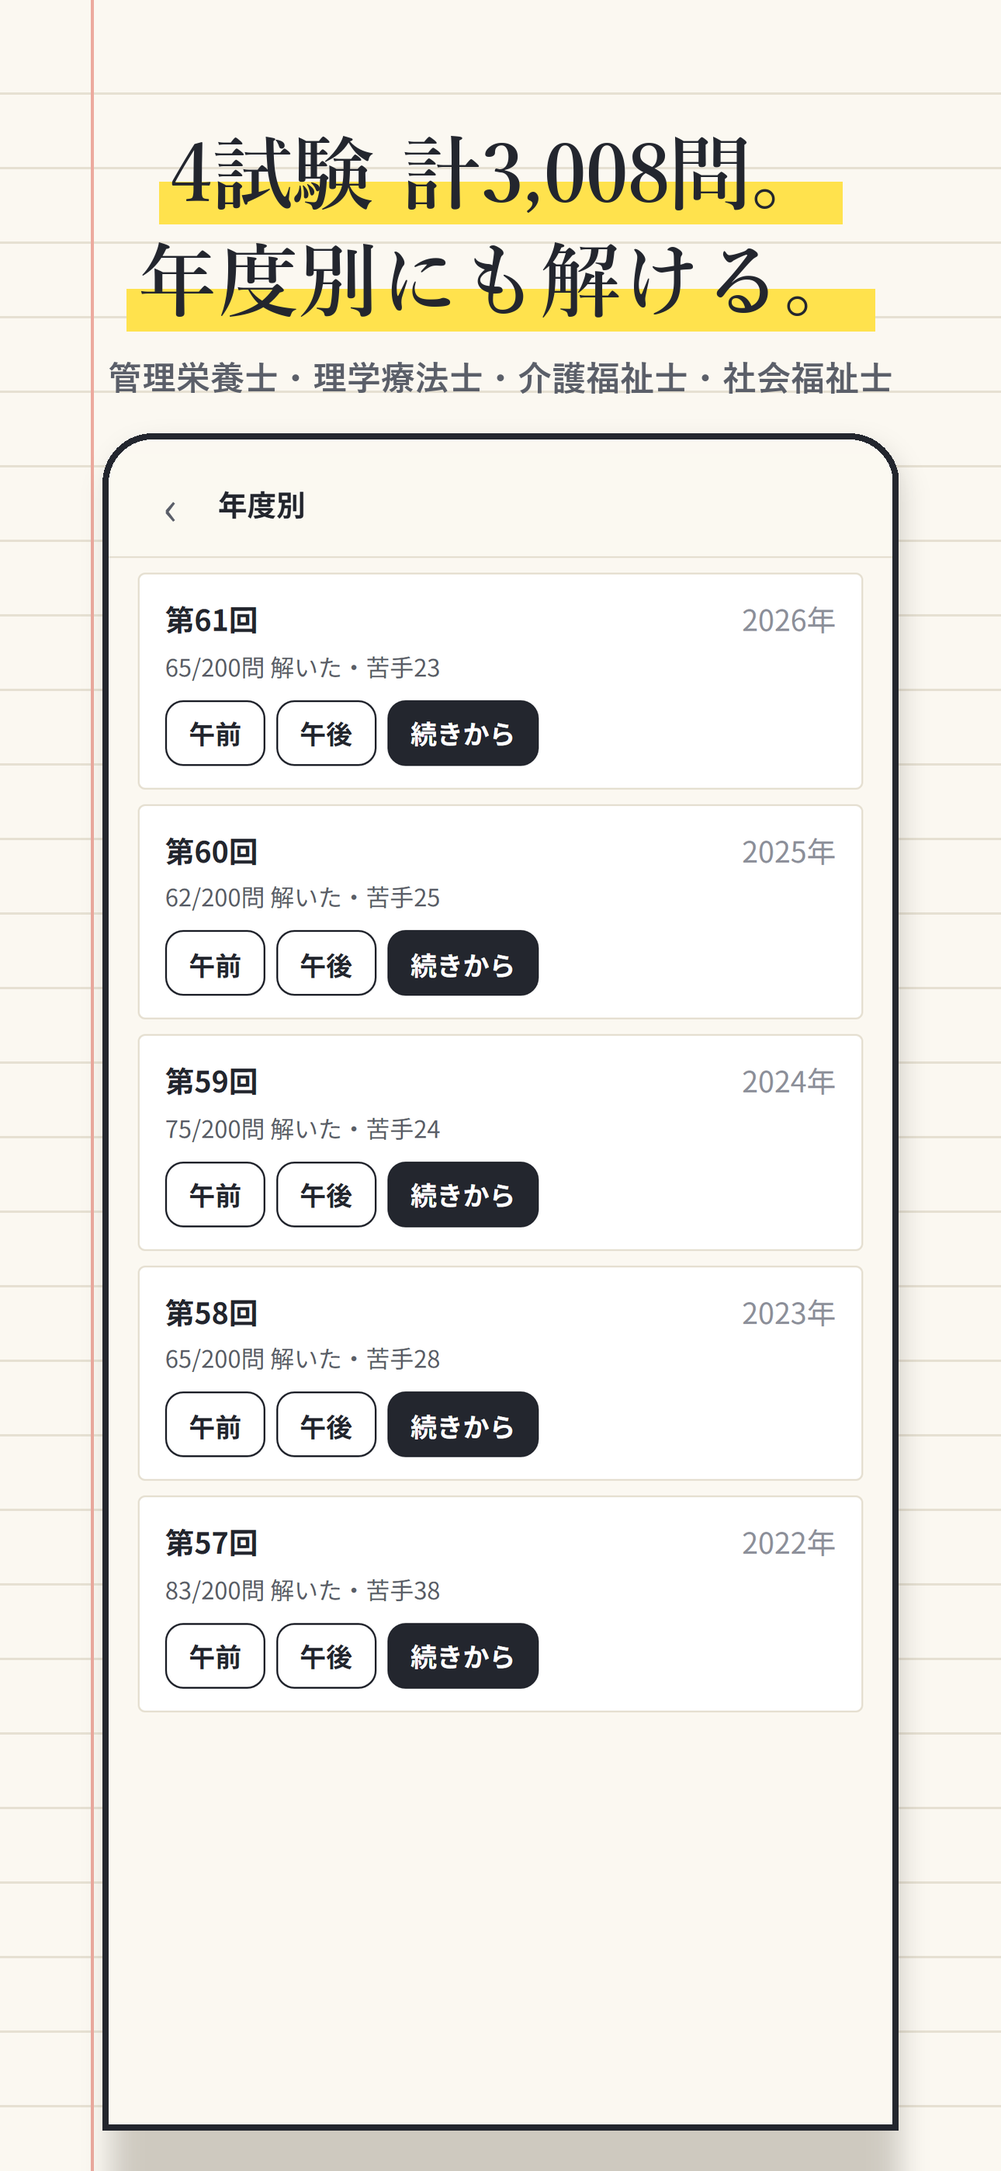
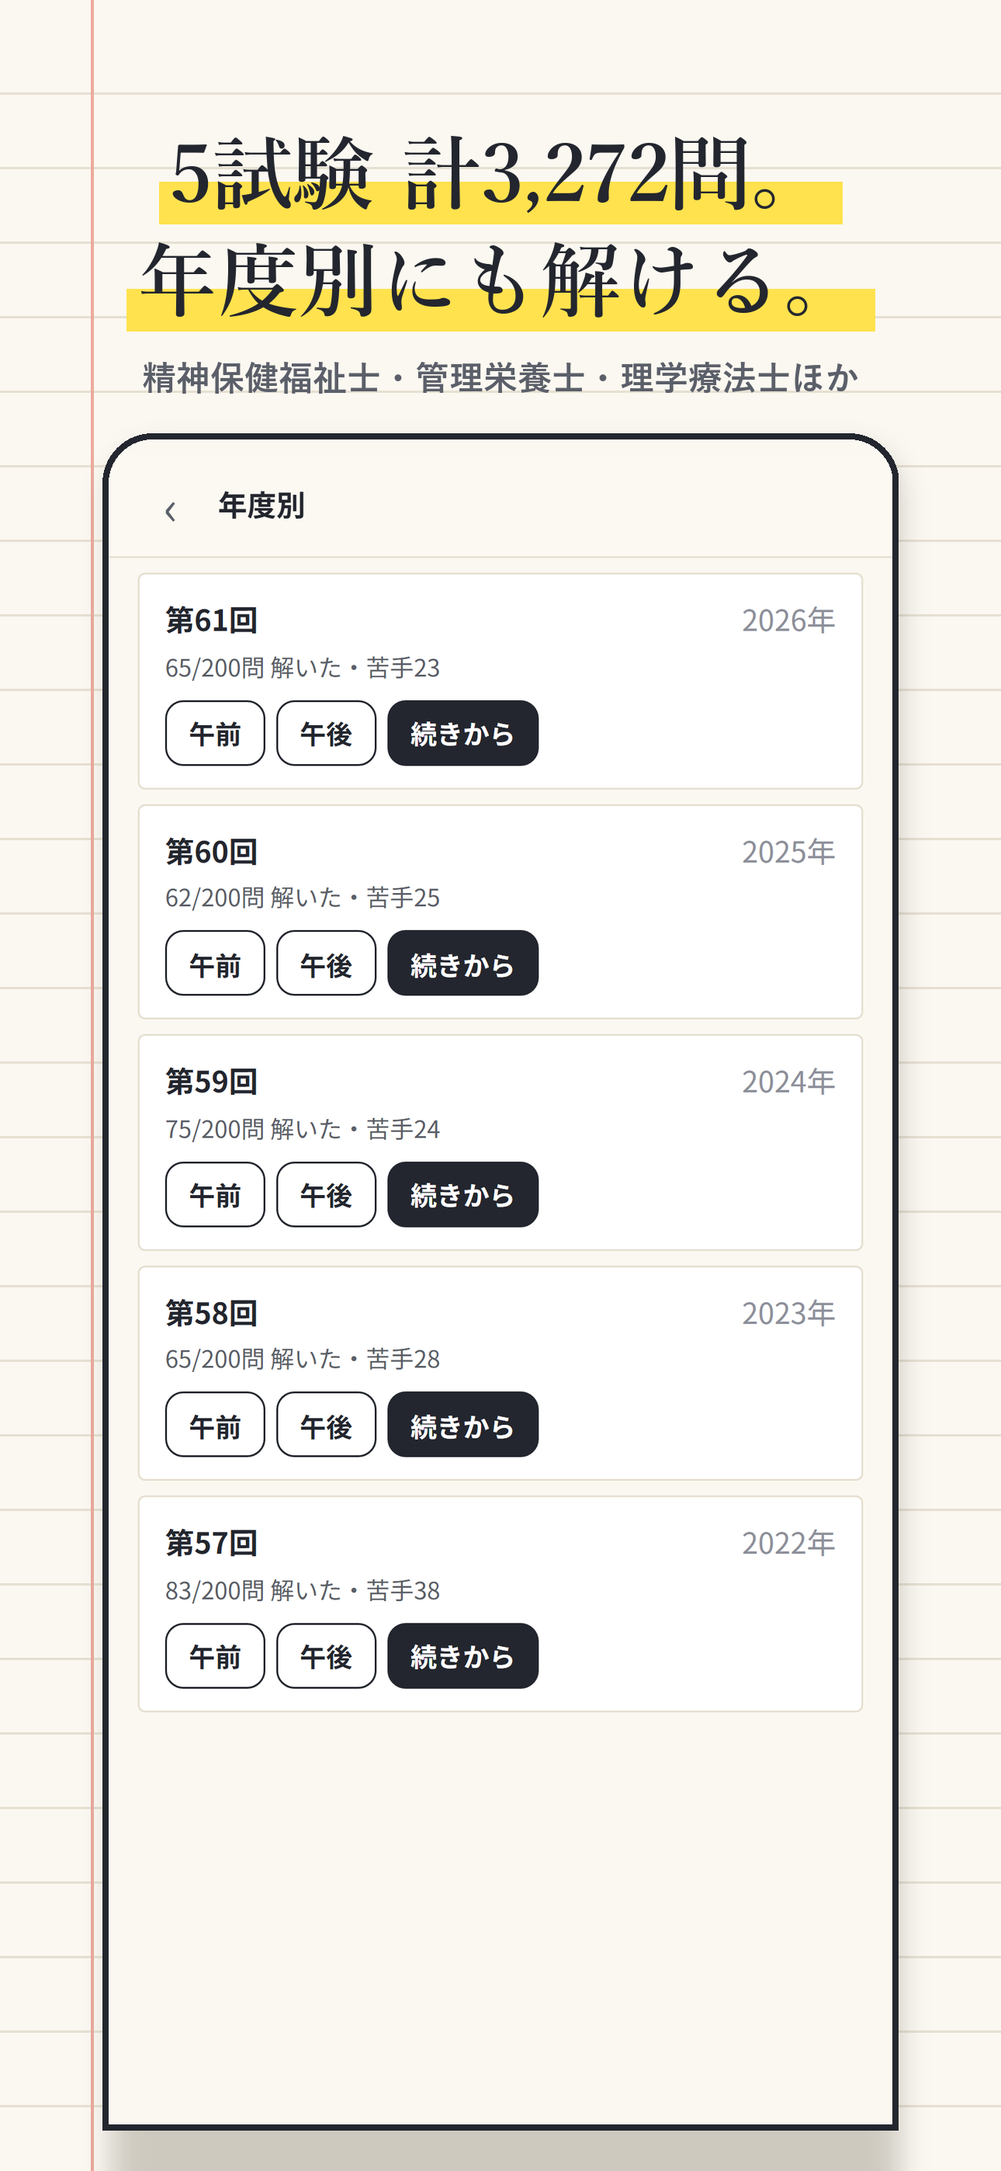
1.2.0 の掲載文と写真: 精神保健福祉士を足し、予想点の写真を直近の合格点の線で撮り直す

Changed region(s): [[0.093, 0.1556, 0.8992, 0.1867], [0.5271, 0.0622, 0.6822, 0.0933], [0.155, 0.0622, 0.2171, 0.0933]]

diff --git a/scripts/make_store_multi.py b/scripts/make_store_multi.py
@@ -3,7 +3,7 @@
 出力(store/multi/):
 - iphone/1〜6.png 1290x2796(1枚目は試験を選ぶ画面)
 - ipad/1〜5.png 2048x2732(iPhone の1〜5枚目を、ぼかした同じ絵の上に置く。ios_release/ipad_shots と同じ形)
-- iap/<試験>.png 1290x2796(App内課金の審査用。各試験の購入画面)
+- iap/<試験>.png 1290x2796(App内課金の審査用。各試験の購入画面。精神保健福祉士を含む5枚)
 撮影途中の画面は store/multi/raw/(git に入れない)"""
 import os
 import sys
@@ -111,7 +111,7 @@ def capture():
                 pg.screenshot(path=raw("5_result_shakai"))
 
         # App内課金の審査用: 各試験の購入画面(未購入)
-        for exam in ("kanri", "pt", "kaigo", "shakai"):
+        for exam in ("kanri", "pt", "kaigo", "shakai", "seishin"):
             fresh(pg)
             pg.evaluate("(d) => localStorage.setItem('CapacitorStorage.nigatecho.exam', d)", exam)
             pg.goto(URL)
@@ -121,17 +121,20 @@ def capture():
             pg.evaluate("() => window.scrollTo(0, 0)")
             pg.screenshot(path=os.path.join(OUT, "iap", f"{exam}.png"))
         b.close()
+    # 1・2枚目の介護福祉士の画面(ホーム・解説)は Play・イベントの画像と同じ撮り方
+    import make_store_play_events as pe
+    pe.capture_kaigo()
 
 
 # 写真に値段・「無料」を書かない(2026-10-07 1.1.0 が 2.3.7 で却下: 試験選びの画面の「完全版 ¥980」「無料」と6枚目の見出し)。
 # 試験選びの画面は値段が映るので使わない。受験生の多い介護福祉士を先頭に置く。
 IPHONE = [
-    ("e_home_kaigo", "介護福祉士も、\n1つのアプリで。", "管理栄養士・理学療法士・介護福祉士・社会福祉士"),
+    ("e_home_kaigo", "介護福祉士も、\n1つのアプリで。", "介護福祉士・社会福祉士・精神保健福祉士ほか"),
     ("e_answer_kaigo", "全問に、\nなぜ違うかの解説。", "正答の理由と、ほかの選択肢の誤りを1つずつ"),
-    ("4_forecast_kaigo", "本番なら何点か、\n毎日わかる。", "合格基準と並べて、科目ごとの正答率も"),
+    ("4_forecast_kaigo", "本番なら何点か、\n毎日わかる。", "直近の合格点と並べて、科目ごとの正答率も"),
     ("2_home_kanri", "間違えた問題だけが、\n残る。", "苦手はノートに残り、本番までに減らしていく"),
     ("5_result_shakai", "2回続けて正解したら、\n消える。", "苦手が0問になったら、本番に持っていく苦手はない"),
-    ("6_exams_pt", "4試験 計3,008問。\n年度別にも解ける。", "管理栄養士・理学療法士・介護福祉士・社会福祉士"),
+    ("6_exams_pt", "5試験 計3,272問。\n年度別にも解ける。", "精神保健福祉士・管理栄養士・理学療法士ほか"),
 ]
 
 
@@ -170,7 +173,7 @@ def ipad(src, dst):
 
 
 def check_sizes():
-    for d, size, n in (("iphone", (1290, 2796), 6), ("ipad", (2048, 2732), 5), ("iap", (1290, 2796), 4)):
+    for d, size, n in (("iphone", (1290, 2796), 6), ("ipad", (2048, 2732), 5), ("iap", (1290, 2796), 5)):
         files = sorted(os.listdir(os.path.join(OUT, d)))
         assert len(files) == n, (d, files)
         for f in files:

diff --git a/store/multi/listing_ja.md b/store/multi/listing_ja.md
@@ -1,6 +1,6 @@
-# ストア掲載文 試験を選べる版 v1.1.0(日本語)
+# ストア掲載文 試験を選べる版 v1.2.0(日本語)
 
-公開中の管理栄養士のアプリ(App Store 6818535389・jp.nigatecho.kanrieiyoushi)を、4つの国家試験を選べる1本のアプリにする版の掲載文。画面写真は store/multi/iphone(6.7インチ 1290x2796 6枚)・ipad(13インチ 2048x2732 5枚)・iap(App内課金の審査用 4枚)。作り方は scripts/make_store_multi.py。
+公開中の管理栄養士のアプリ(App Store 6818535389・jp.nigatecho.kanrieiyoushi)の、5つの国家試験を選べる版の掲載文。画面写真は store/multi/iphone(6.7インチ 1290x2796 6枚)・ipad(13インチ 2048x2732 5枚)・iap(App内課金の審査用 5枚)。作り方は scripts/make_store_multi.py。写真には値段と「無料」を書かない(1.1.0 が 2.3.7 で却下された)。
 
 ## App Store
 
@@ -8,30 +8,33 @@
 ニガテ帳 国家試験の過去問
 
 ### サブタイトル(30字以内)
-管理栄養士・理学療法士・介護福祉士・社会福祉士
+介護福祉士・社会福祉士・精神保健福祉士ほか
 
-### キーワード(100字以内・カンマ区切り・名前とサブタイトルの語は入れない)
-国試,一問一答,問題集,模試,解説,2027,第41回,第62回,第39回,管栄,PT,リハビリ,ケアワーカー,ソーシャルワーク,新カリキュラム,苦手,復習,暗記,勉強,対策,オフライン,広告なし
+### キーワード(100字以内・カンマ区切り)
+国試,一問一答,問題集,模試,解説,精神保健福祉士,精保,2027,第39回,第41回,第62回,第29回,介福,社福,管栄,PT,実務者研修,パート合格,復習,管理栄養士,理学療法士,オフライン
 
 ### プロモーションテキスト(170字以内)
-管理栄養士・理学療法士・介護福祉士・社会福祉士の過去問を1つのアプリで。間違えた問題だけが残り、2回続けて正解すると消えます。全問解説つき。どの試験も最新の回は無料で解けます。
+介護福祉士・社会福祉士・精神保健福祉士・管理栄養士・理学療法士の過去問を1つのアプリで。間違えた問題だけが残り、2回続けて正解すると消えます。全問解説つき。
 
 ### 説明文
 「あと何問わからないのか」が毎日ひと目でわかる、国家試験の過去問アプリです。アプリの中で試験を選んで解きます。
 
 間違えた問題は「苦手」としてノートに残り、同じ問題に2回続けて正解すると消えます。苦手が0問になったら、本番に持っていく苦手はありません。
 
-◆ 選べる試験(4つ・計3,008問)
+◆ 選べる試験(5つ・計3,272問)
 ・管理栄養士: 第36〜40回 1,000問(無料は第40回の200問)
 ・理学療法士: 第57〜61回 1,000問(無料は第61回の200問)
 ・介護福祉士: 第33〜38回 750問(無料は第38回の125問)
 ・社会福祉士: 第37・38回 258問(無料は第38回の129問)
+・精神保健福祉士: 第27・28回 264問(無料は第28回の132問)
 試験はホームの「試験を切り替える」からいつでも替えられます。解いた記録・苦手・しるし・模試の結果は試験ごとに分けて残るので、2つの試験を受ける人も混ざりません。
+
+精神保健福祉士の共通科目(午前)は、社会福祉士と同じ問題です。社会福祉士の資格があって共通科目が免除になる人は、ホームの予想点を「専門科目だけ」に切り替えると、専門科目だけの予想点を出せます。
 
 ◆ できること
 ・全問に解説。正答の理由と、ほかの選択肢がなぜ違うかを書いています
 ・苦手を解く: 間違えた問題だけを出します
-・本番の予想点: いまの科目ごとの正答率で本番を受けたら何点か、合格基準と並べて表示します
+・本番の予想点: いまの科目ごとの正答率で本番を受けたら何点か、合格点と並べて表示します。合格点が回ごとに変わる介護福祉士・社会福祉士・精神保健福祉士は、直近の回の合格点と比べます
 ・科目ごとの正答率: どの科目で落としているかが棒の長さでわかります
 ・年度別・科目別・まだ解いていない問題・ランダム10問・しるし
 ・本番形式の模試: 時間を計って解き、科目別の点数を記録します(完全版)
@@ -44,7 +47,8 @@
 　理学療法士 完全版 ¥980: 第57〜60回の800問と本番形式の模試
 　介護福祉士 完全版 ¥900: 第33〜37回の625問と本番形式の模試
 　社会福祉士 完全版 ¥900: 第37回の129問と本番形式の模試
-・ある試験の完全版を買っても、ほかの試験は開きません
+　精神保健福祉士 完全版 ¥900: 第27回の132問と本番形式の模試
+・ある試験の完全版を買っても、ほかの試験は開きません(社会福祉士と精神保健福祉士の完全版も別の商品です)
 ・管理栄養士の完全版をすでに買った方は、そのまま使えます
 
 ◆ 安心して使えるように
@@ -63,8 +67,10 @@
 　https://www.sssc.or.jp/kaigo/past_exam/index.html
 ・社会福祉士: 公益財団法人 社会福祉振興・試験センター「社会福祉士国家試験 過去の試験問題」
 　https://www.sssc.or.jp/shakai/past_exam/index.html
+・精神保健福祉士: 公益財団法人 社会福祉振興・試験センター「精神保健福祉士国家試験 過去の試験問題」
+　https://www.sssc.or.jp/seishin/past_exam/index.html
 
-介護福祉士と社会福祉士の過去問は、社会福祉振興・試験センターの「過去問題利用にあたっての留意事項等」(https://www.sssc.or.jp/pastissues/index.html)にしたがって収録しています。この留意事項では、教育目的など試験制度の意義に反しない限り、過去問題を問題集・テキスト・アプリ等に使うときに許諾の申し出と使用料の支払いは要らないとされています。問題文と選択肢の文言は変えずに収録し、センターの冊子のデザイン・レイアウトは使っていません。過去問題には、その後の法改正等により現時点では問題として成立していないものが含まれます。制度が変わった問題には、解説に注記を付けています。
+介護福祉士・社会福祉士・精神保健福祉士の過去問は、社会福祉振興・試験センターの「過去問題利用にあたっての留意事項等」(https://www.sssc.or.jp/pastissues/index.html)にしたがって収録しています。この留意事項では、教育目的など試験制度の意義に反しない限り、過去問題を問題集・テキスト・アプリ等に使うときに許諾の申し出と使用料の支払いは要らないとされています。問題文と選択肢の文言は変えずに収録し、センターの冊子のデザイン・レイアウトは使っていません。過去問題には、その後の法改正等により現時点では問題として成立していないものが含まれます。制度が変わった問題には、解説に注記を付けています。
 
 各回の掲載ページへのリンクは、アプリの「出典と参考文献」(ホームのいちばん下と設定画面)と、各問の解説の下にあります。
 
@@ -72,40 +78,30 @@
 
 問題や解説の誤りに気づいたら、サポートページからお知らせください。確認して直します。
 
-### このバージョンの新機能(v1.1.0)
-試験を選べるようになりました。管理栄養士に加えて、理学療法士・介護福祉士・社会福祉士の過去問を、このアプリの中で解けます。
-・ホームの「試験を切り替える」から試験を選びます
-・記録・苦手・模試の結果は試験ごとに分けて残ります
-・どの試験も、いちばん新しい回は無料です
-・管理栄養士の記録と、購入済みの完全版はそのまま引き継がれます
+### このバージョンの新機能(v1.2.0)
+精神保健福祉士を追加しました(第27・28回 264問)。
+・ホームの「試験を切り替える」から選べます
+・共通科目が免除の人は、予想点を専門科目だけで出せます
+・予想点の合格ラインを、各試験の直近の合格点にしました(合格点が回ごとに変わる介護福祉士・社会福祉士・精神保健福祉士)
 
 ### App Review へのメモ(英語)
-This update (1.1.0) consolidates our per-exam study apps into this single app. Instead of publishing a separate app for each national exam, the app now has an in-app exam picker with four exams: Registered Dietitian (管理栄養士, the exam this app already covered), Physical Therapist (理学療法士), Certified Care Worker (介護福祉士) and Certified Social Worker (社会福祉士). The separate submissions for the Physical Therapist, Care Worker and Social Worker apps are withdrawn and will not be resubmitted; their content now lives only in this app.
+This update (1.2.0) adds a fifth exam to the in-app exam picker: Certified Psychiatric Social Worker (精神保健福祉士), 27th and 28th sittings, 264 questions. The app now covers five exams: Registered Dietitian (管理栄養士), Physical Therapist (理学療法士), Certified Care Worker (介護福祉士), Certified Social Worker (社会福祉士) and Certified Psychiatric Social Worker (精神保健福祉士). It also changes the pass line in the home-screen score estimate: for the Care Worker, Social Worker and Psychiatric Social Worker exams, whose pass mark is adjusted every sitting, the line is now the official pass mark of the most recent sitting instead of 60% of the maximum.
 
-How to use: no login or account is needed. The app opens on the Registered Dietitian exam. To change the exam, tap "試験を切り替える" (Switch exam) at the top of the home screen, or Settings > 試験. Each exam keeps its own study records. All question data is bundled in the app and works offline. There are no ads.
+How to use: no login or account is needed. Tap "試験を切り替える" (Switch exam) at the top of the home screen (or Settings > 試験) and choose "精神保健福祉士". Each exam keeps its own records. All data is bundled and works offline. No ads.
 
-Free content: for every exam, the most recent sitting is fully free (Dietitian 40th, 200 questions / Physical Therapist 61st, 200 questions / Care Worker 38th, 125 questions / Social Worker 38th, 129 questions), including explanations, the review of missed questions and the score estimate.
+Free content: for every exam the most recent sitting is fully free (Psychiatric Social Worker: 28th, 132 questions), including explanations, review of missed questions and the score estimate.
 
-In-app purchases (all non-consumable, one-time; each unlocks only its own exam):
-- nigatecho_kanri_full (¥980, existing product): Registered Dietitian, 36th-39th exams (800 questions) and full-length mock exams.
-- nigatecho_multi_pt_full (¥980): Physical Therapist, 57th-60th exams (800 questions) and full-length mock exams.
-- nigatecho_multi_kaigo_full (¥900): Certified Care Worker, 33rd-37th exams (625 questions) and full-length mock exams.
-- nigatecho_multi_shakai_full (¥900): Certified Social Worker, 37th exam (129 questions) and full-length mock exams.
-To open a paywall: select the exam, then tap the "完全版で、あと…問" banner near the bottom of the home screen, or Settings > "<exam>の完全版" > 見る. Restore purchases: the "以前に買った方はこちら(購入の復元)" link on each paywall, and Settings > 購入の復元 > 復元.
+New in-app purchase in this submission:
+- nigatecho_multi_seishin_full (¥900, non-consumable): Psychiatric Social Worker, 27th exam (132 questions) and full-length mock exams. It unlocks only this exam. It is a separate product from nigatecho_multi_shakai_full; the common-subject questions (morning session) are the same official questions for both exams, which the paywall states.
+Existing products (already approved): nigatecho_kanri_full, nigatecho_multi_pt_full, nigatecho_multi_kaigo_full, nigatecho_multi_shakai_full.
 
-Sources (Guideline 1.4.1): the questions and official answers come from the bodies that administer each exam.
-- Registered Dietitian: Ministry of Health, Labour and Welfare (MHLW), https://www.mhlw.go.jp/kouseiroudoushou/shikaku_shiken/kanrieiyoushi/ (latest sitting: https://www.mhlw.go.jp/stf/newpage_17056.html)
-- Physical Therapist: MHLW, https://www.mhlw.go.jp/kouseiroudoushou/shikaku_shiken/rigakuryouhoushi/ (latest sitting: https://www.mhlw.go.jp/seisakunitsuite/bunya/kenkou_iryou/iryou/topics/tp260424-08_09.html)
-  MHLW content is used under the Public Data License v1.0: https://www.digital.go.jp/resources/open_data/public_data_license_v1.0
-- Certified Care Worker: Social Welfare Promotion and National Examination Center (SSSC), https://www.sssc.or.jp/kaigo/past_exam/index.html
-- Certified Social Worker: SSSC, https://www.sssc.or.jp/shakai/past_exam/index.html
-  SSSC's terms for past questions (https://www.sssc.or.jp/pastissues/index.html) state that no permission request or fee is needed to use past questions in question books, textbooks or apps for educational purposes; we keep the wording unchanged as those terms require.
-Where to find them in the app: (1) Home screen, bottom link "出典と参考文献" (Sources and references), which lists the source page for every sitting of the selected exam with links, the usage terms and the disclaimer; (2) Settings > 出典と参考文献, plus the credit text at the bottom of Settings; (3) under every explanation, a source line with a link to the official page for that question. The pages switch with the selected exam.
-All explanations are written by us. The app is made by an individual developer and does not represent, and is not affiliated with, any government agency, MHLW or SSSC. This disclaimer is shown on the sources screen, in Settings and in the description.
+To test the purchase (sandbox): switch to 精神保健福祉士, then tap the "完全版で、あと…問" banner near the bottom of the home screen (or Settings > "精神保健福祉士の完全版" > 見る, or a locked 27th sitting under 年度別). Tap "¥900 で買う" and sign in with a sandbox account. Restore: "以前に買った方はこちら(購入の復元)" on the paywall, or Settings > 購入の復元.
+
+Sources (Guideline 1.4.1): Psychiatric Social Worker questions and answers come from the Social Welfare Promotion and National Examination Center (SSSC), https://www.sssc.or.jp/seishin/past_exam/index.html . The common-subject questions are printed in the same official booklet as the Social Worker exam (https://www.sssc.or.jp/shakai/past_exam/index.html), and each question links to its booklet. SSSC's terms for past questions (https://www.sssc.or.jp/pastissues/index.html) state that no permission request or fee is needed for educational question books or apps; wording is unchanged. Other sources are as in 1.1.0 (MHLW for Dietitian and Physical Therapist under the Public Data License v1.0; SSSC for Care Worker and Social Worker). In the app: Home > "出典と参考文献", Settings > 出典と参考文献, and a source link under every explanation.
+All explanations are written by us. The app is made by an individual developer and is not affiliated with any government agency, MHLW or SSSC.
 
 External service: RevenueCat for purchases (anonymous user ID and purchase information only).
 
-## 字数(2026-10-06 に数えた)
-- 名前 13字 / サブタイトル 23字 / キーワード 98字(22語・重複なし・名前とサブタイトルの語を含まない)
-- プロモーションテキスト 88字 / 説明文 2,064字 / 新機能 165字 / 審査メモ 3,835字(英語。App Review の欄は4,000字まで)
+## 字数
+- 数え方は ios_release/multi_version_120.py が出す(サブタイトル30字・キーワード100字・プロモーション170字・説明文と新機能と審査メモ4,000字)
 - 名前「ニガテ帳 国家試験の過去問」は capacitor の appName(exams/multi.json の appName)と同じ。ホーム画面の名前は「ニガテ帳」(multi.json の homeName)
